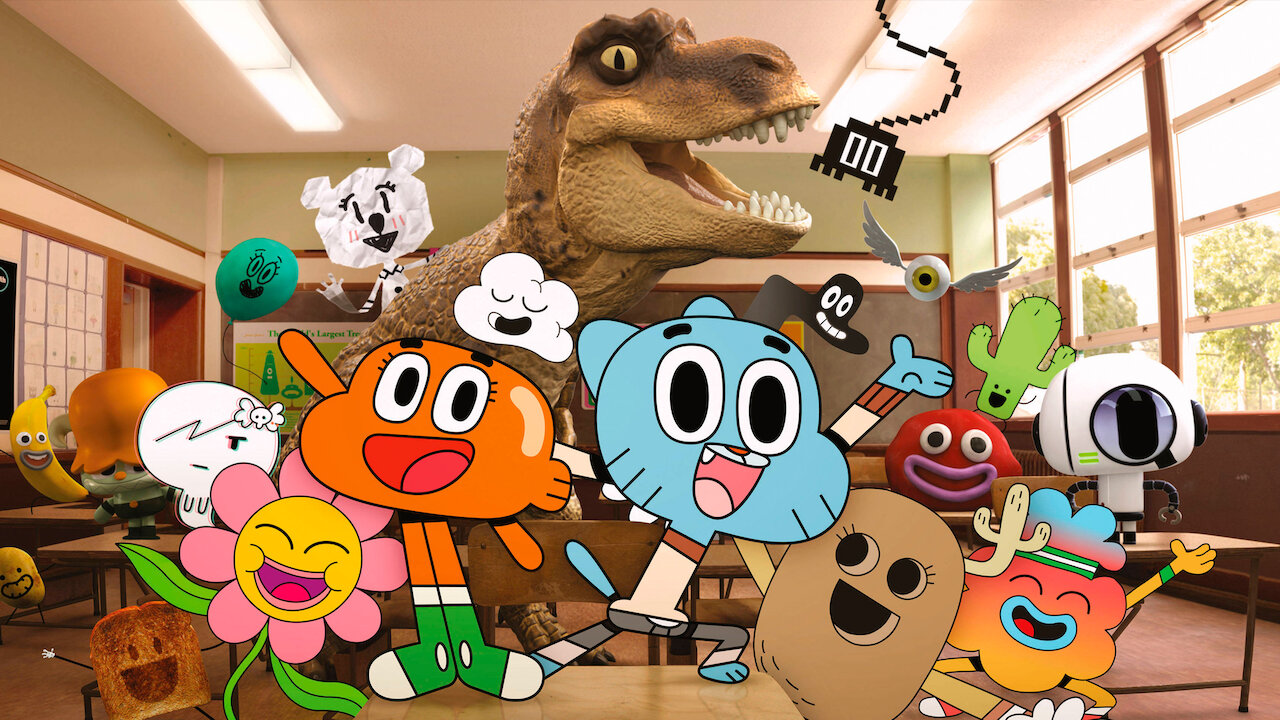
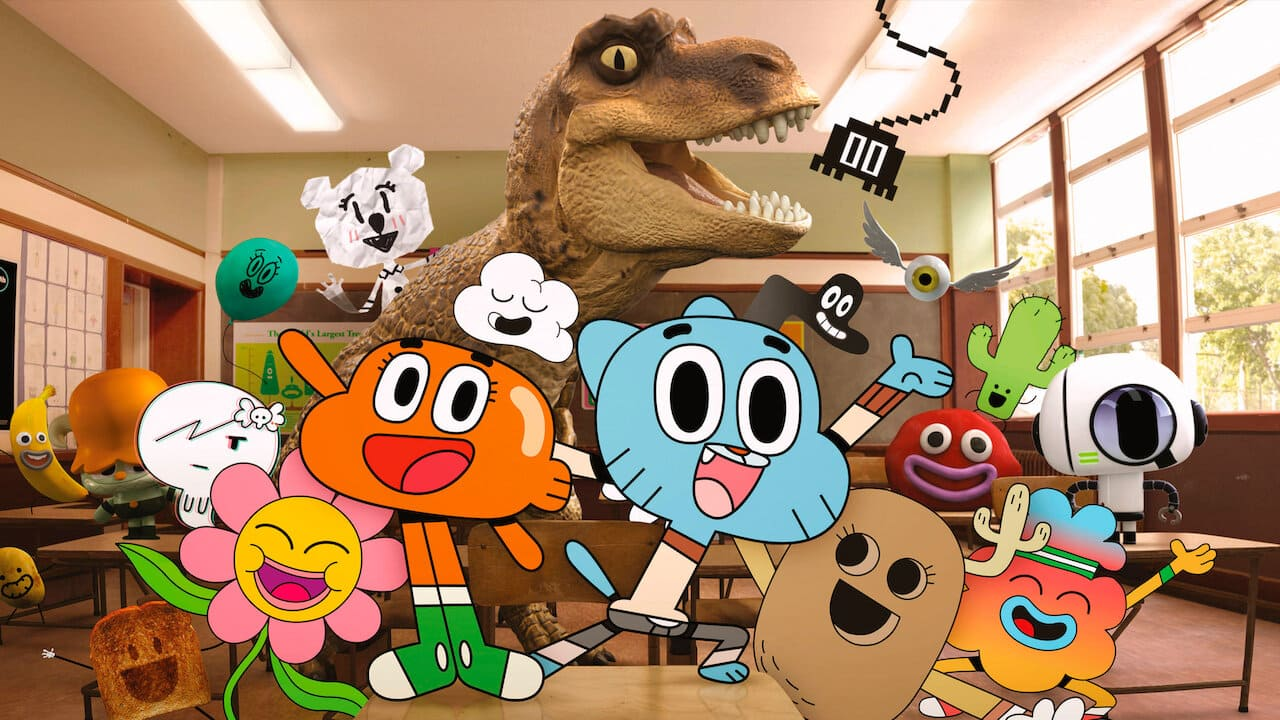
Compress home images

diff --git a/lib/data.ts b/lib/data.ts
@@ -350,7 +350,7 @@ export const newsData = [
       "Aventura em Dobro! Novos Episódios de Gumball Chegam na Próxima Semana",
     snippet:
       "Prepare-se para mais confusões em Elmore! Gumball e Darwin estão de volta com uma leva de episódios inéditos que prometem muitas risadas.",
-    image: "/home/cartoon-news-1.webp",
+    image: "/home/cartoon-news-1.jpg",
     imageQuery: "gumball and darwin looking surprised in a new episode scene",
     href: "/videos",
   },
@@ -360,7 +360,7 @@ export const newsData = [
     headline: "Copa Toon 2025: O Torneio Começou!",
     snippet:
       "Escolha seu capitão e monte seu time dos sonhos. A nova temporada da Copa Toon já está disponível com novos personagens e estádios.",
-    image: "/home/cartoon-news-2.webp",
+    image: "/home/cartoon-news-2.jpg",
     imageQuery: "cartoon characters playing soccer in a stadium for copa toon",
     href: "/liga-toon",
   },
